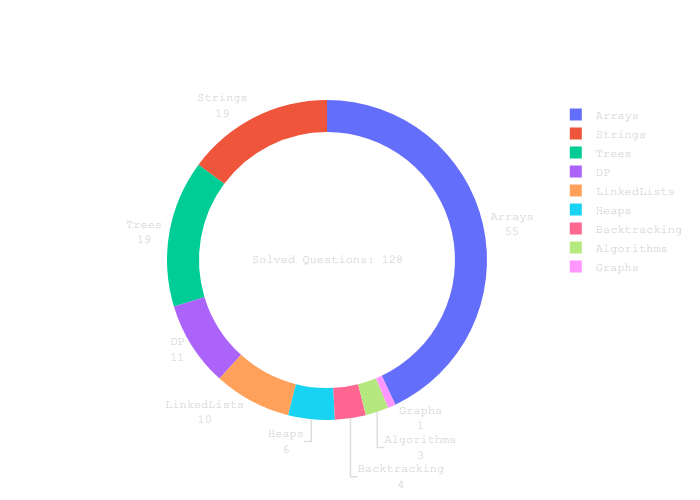
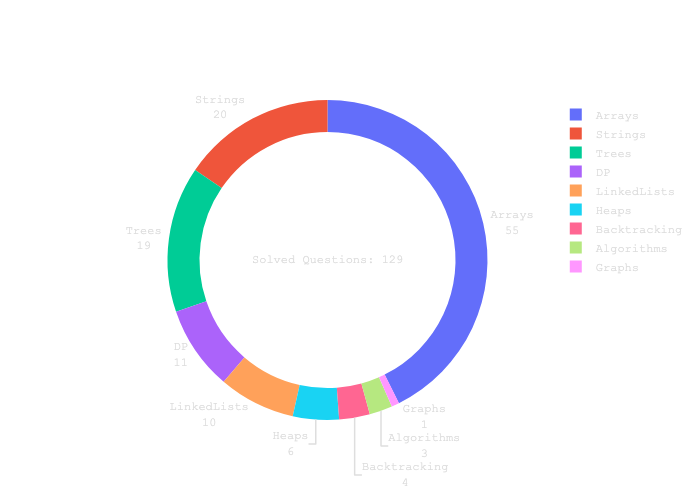
most visited sites pattern

diff --git a/Strings/mostVisitedPattern.py b/Strings/mostVisitedPattern.py
@@ -1,0 +1,60 @@
+from heapq import heapify
+from typing import List
+from itertools import combinations
+from collections import Counter, defaultdict
+
+
+def mostVisitedPattern(
+    username: List[str], timestamp: List[int], website: List[str]
+) -> List[str]:
+    user_sites = defaultdict(list)
+
+    tuples = sorted(zip(username, timestamp, website), key=lambda x: x[1])
+    for user, _, site in tuples:
+        user_sites[user].append(site)
+    patterns = Counter()
+
+    for sites in user_sites.values():
+        for triplet in set(combinations(sites, 3)):
+            patterns[triplet] += 1
+    heap = [(-val, key) for key, val in patterns.items()]
+    heapify(heap)
+    return heap[0][1]
+
+
+print(
+    mostVisitedPattern(
+        ["ua", "ua", "ua", "ub", "ub", "ub"],
+        [1, 2, 3, 4, 5, 6],
+        ["a", "b", "c", "a", "b", "a"],
+    )
+)
+print(
+    mostVisitedPattern(
+        username=[
+            "joe",
+            "joe",
+            "joe",
+            "james",
+            "james",
+            "james",
+            "james",
+            "mary",
+            "mary",
+            "mary",
+        ],
+        timestamp=[1, 2, 3, 4, 5, 6, 7, 8, 9, 10],
+        website=[
+            "home",
+            "about",
+            "career",
+            "home",
+            "cart",
+            "maps",
+            "home",
+            "home",
+            "about",
+            "career",
+        ],
+    )
+)
